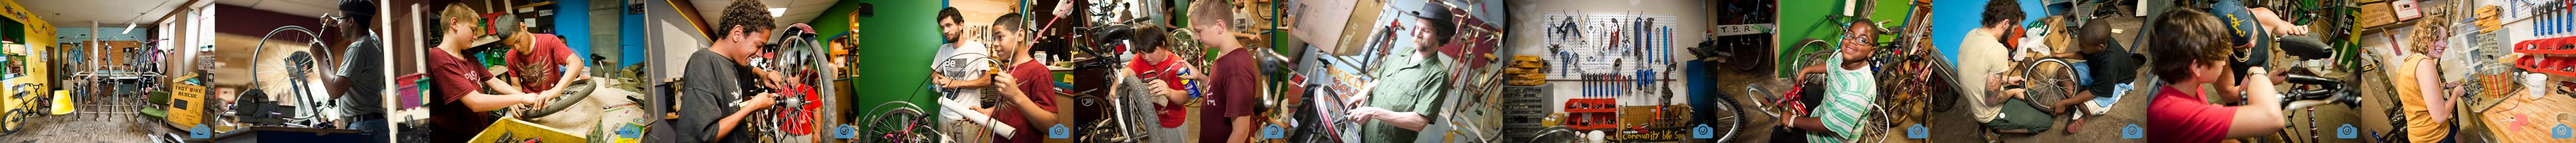
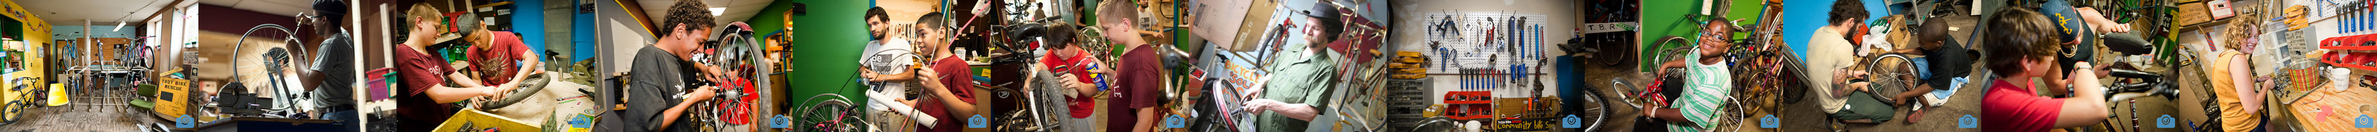
added address/changed placement of donate button

diff --git a/app/index.html b/app/index.html
@@ -49,7 +49,7 @@
 		c-0.4,0.7-0.3,0.9,0.5,0.9C617.9,45.4,619.7,45.4,621.5,45.4z"/>
 </g>
 <g id="donate">
-	<path style="fill:#FFFEF2;" d="M568.3,35.3c0,11-9,20-20,20h-160c-11,0-20-9-20-20l0,0c0-11,9-20,20-20h160
+	<path style="fill:#222222;" d="M568.3,35.3c0,11-9,20-20,20h-160c-11,0-20-9-20-20l0,0c0-11,9-20,20-20h160
 		C559.3,15.3,568.3,24.3,568.3,35.3L568.3,35.3z M418.4,49.5c3.8,0,5.8-0.8,6.9-2.9c1.1-2.1,1.2-5.6,1.2-11s-0.2-8.9-1.2-11
 		c-1.1-2.1-3.1-2.9-6.9-2.9h-3.2v27.8H418.4z M419.2,25.8c1.4,0,2.2,0.2,2.6,1.5c0.2,0.7,0.3,1.7,0.4,2.9c0,1.3,0,3.1,0,5.4
 		s0,4,0,5.4s-0.2,2.3-0.4,2.9c-0.4,1.4-1.2,1.5-2.6,1.5V25.8z M444.8,27.4c0-1.1-0.3-2.1-0.7-3c-0.3-0.8-0.9-1.5-1.6-2.1
@@ -127,12 +127,9 @@
       <div id="page-splash" class="small-12 columns">
         <div id="splash-title-container">
           <div id="splash-title">TROY BIKE RESCUE</div>
-          <div id="splash-donate-button">
-            <form action="https://www.paypal.com/cgi-bin/webscr" method="post">
-              <input name="cmd" value="_s-xclick" type="hidden">
-              <input name="hosted_button_id" value="7G4M6AM26W9T6" type="hidden"><br>
-              <input src="/images/donate-button.svg" name="submit" alt="PayPal -The safer, easier way to pay online!" border="0" type="image"><img src="https://www.paypalobjects.com/en_US/i/scr/pixel.gif" height="1" width="1"><br>
-            </form>
+          <div id="splash-address">
+            <h2>3280 6th Avenue Troy, NY 12180</h2>
+            <h2>(518)-328-4827</h2>
           </div>
           <div id="splash-social-media"><a href="http://www.facebook.com/troybikerescue">
                 <!--got my svg sprie sheet on a 72px base grid-->
@@ -280,7 +277,7 @@
           <h1>ADOPT A BIKE</h1>
         </div>
         <div class="row">
-          <div class="small-12 medium-10 large-8 medium-centered columns">
+          <div class="small-12 medium-8 large-6 medium-centered columns">
             <p>
               Refurbished bicycles are available for adoption for a donation on a sliding scale.
               Bikes are grouped into several categories ($15-30, $30-60, $60-100, etc...), 
@@ -290,6 +287,13 @@
               All proceeds from bike adoption fees pay TBR overhead. Without your donations, we cannot do what we do.
             </p>
           </div>
+        </div>
+        <div class="row">
+          <div id="donate-button"><a href="https://www.paypal.com/cgi-bin/webscr?cmd=_donations&amp;business=CBUZAKHL5EDKG&amp;lc=US&amp;item_name=Troy%20Bike%20Rescue&amp;no_note=0&amp;cn=Any%20comments%20for%20TBR%3f&amp;no_shipping=1&amp;currency_code=USD&amp;bn=PP%2dDonationsBF%3abtn_donate_LG%2egif%3aNonHosted">
+                <!--got my svg sprie sheet on a 72px base grid-->
+                <svg viewbox="360 0 216 72" class="svg-sprite">
+                  <use xlink:href="#donate"></use>
+                </svg></a></div>
         </div>
       </div>
     </div>
@@ -352,13 +356,14 @@
         </div>
       </div>
     </div>
-    <script src="http://cdnjs.cloudflare.com/ajax/libs/jquery/2.1.1/jquery.min.js"></script>
+    <script src="//ajax.googleapis.com/ajax/libs/jquery/1.8.3/jquery.min.js"></script>
     <!-- bower:js-->
-    <script async src="//cdnjs.cloudflare.com/ajax/libs/fastclick/1.0.2/fastclick.min.js"></script>
     <!-- endbower-->
-    <script src="//cdnjs.cloudflare.com/ajax/libs/foundation/5.3.1/js/foundation.min.js"></script>
     <!-- build:js js/app.min.js-->
     <script src="js/app.js"></script>
+    <script src="/bower_components/fastclick/lib/fastclick.js"></script>
+    <script src="/bower_components/foundation/js/foundation/foundation.js"></script>
+    <script src="/bower_components/foundation/js/foundation/foundation.equalizer.js"></script>
     <!-- endbuild-->
   </body>
 </html>

diff --git a/app/css/app.css b/app/css/app.css
@@ -5266,10 +5266,6 @@ h2 {
   font-size: 7em;
   line-height: 1em;
 }
-#page-splash #splash-donate-button {
-  width: 200px;
-  margin: 0 auto;
-}
 #page-splash #splash-social-media {
   width: 100%;
   display: -webkit-box;
@@ -5291,14 +5287,9 @@ h2 {
   height: 100%;
   width: 100%;
 }
-#page-splash #splash-social-media #splash-social-media--facebook {
-  background: url("/images/social-media-icons.svg");
-}
-#page-splash #splash-social-media #splash-social-media--twitter {
-  background: url("/images/social-media-icons.svg") -40px 0;
-}
-#page-splash #splash-social-media #splash-social-media--instagram {
-  background: url("/images/social-media-icons.svg") -80px 0;
+#page-splash #splash-address h2 {
+  color: ivory;
+  text-align: center;
 }
 
 #page-programs {
@@ -5467,10 +5458,10 @@ Feel free to copy and reuse as you like
   float: left;
   position: relative;
   overflow: hidden;
-  max-width: 325px;
+  max-width: 325.00000001px;
 }
 #page-gallery .stretchy .spacer {
-  width: 100.000%;
+  width: 100.00000001%;
   height: auto;
 }
 #page-gallery .stretchy .sprite {
@@ -5478,7 +5469,7 @@ Feel free to copy and reuse as you like
   top: 0;
   left: 0;
   max-width: none;
-  max-height: 100.000%;
+  max-height: 100.00000001%;
 }
 #page-gallery .stretchy .sprite.s2 {
   left: -100%;
@@ -5517,10 +5508,10 @@ Feel free to copy and reuse as you like
   left: -1200%;
 }
 #page-gallery .stretchy.no-limit {
-  max-width: none;
+  max-width: 600.00000001px;
 }
 #page-gallery .stretchy.no-limit .sprite {
-  min-height: 100.000%;
+  min-height: 100.00000001%;
 }
 #page-gallery h1 {
   font-size: 4em;
@@ -5548,7 +5539,7 @@ Feel free to copy and reuse as you like
   background-color: ivory;
   padding: 1em;
 }
-#page-adopt-a-bike svg {
+#page-adopt-a-bike .svg-sprite {
   display: block;
   width: 10em;
   height: 8em;
@@ -5560,6 +5551,26 @@ Feel free to copy and reuse as you like
 }
 #page-adopt-a-bike p {
   padding: 10px;
+}
+#page-adopt-a-bike #donate-button {
+  display: -webkit-box;
+  display: -webkit-flex;
+  display: -ms-flexbox;
+  display: flex;
+  -webkit-box-orient: horizontal;
+  -webkit-box-direction: normal;
+  -webkit-flex-direction: row;
+      -ms-flex-direction: row;
+          flex-direction: row;
+  -webkit-box-pack: center;
+  -webkit-justify-content: center;
+      -ms-flex-pack: center;
+          justify-content: center;
+}
+#page-adopt-a-bike #donate-button a svg {
+  width: 216px;
+  height: 72px;
+  margin: 0 0;
 }
 
 .full-width {

diff --git a/app/scss/app.scss b/app/scss/app.scss
@@ -123,11 +123,6 @@ h2 {
     font-size: 7em;
     line-height: 1em;
   }
-  #splash-donate-button {
-    width: 200px;
-    margin: 0 auto;
-  }
-
   #splash-social-media {
     width: 100%;
     display: flex;
@@ -142,17 +137,11 @@ h2 {
         width: 100%;
       }
     }
-
-    #splash-social-media--facebook {
-      background: url($social-media-icons);
-    }
-
-    #splash-social-media--twitter {
-      background: url($social-media-icons) -40px 0;
-    }
-
-    #splash-social-media--instagram {
-      background: url($social-media-icons) -80px 0;
+  }
+  #splash-address {
+    h2 {
+      color: ivory;
+      text-align: center;
     }
   }
 }
@@ -268,16 +257,16 @@ h2 {
   Feel free to copy and reuse as you like
   */
   /*Set the max-width to the width of your individual sprites:*/
-  .stretchy {display:block; float:left; position:relative; overflow:hidden; max-width:325px;}
-  .stretchy .spacer {width: 100.000%; height: auto;}
-  .stretchy .sprite {position:absolute; top:0; left:0; max-width:none; max-height:100.000%;}
+  .stretchy {display:block; float:left; position:relative; overflow:hidden; max-width:325.00000001px;}
+  .stretchy .spacer {width: 100.00000001%; height: auto;}
+  .stretchy .sprite {position:absolute; top:0; left:0; max-width:none; max-height:100.00000001%;}
   @for $i from 1 through 12 {
     .stretchy .sprite.s#{$i + 1} {
       left: percentage(-$i);
     }
   }
-  .stretchy.no-limit { max-width: none;} /*you could also set this to a pixel size, for example 320px, to limit the maximum*/
-  .stretchy.no-limit .sprite {min-height: 100.000%;}
+  .stretchy.no-limit { max-width: 600.00000001px;} /*you could also set this to a pixel size, for example 320px, to limit the maximum*/
+  .stretchy.no-limit .sprite {min-height: 100.00000001%;}
 
   /*END stretchy sprites by tobyj.net*/
   h1 {
@@ -301,7 +290,7 @@ h2 {
 #page-adopt-a-bike {
   background-color: ivory;
   padding: 1em;
-  svg {
+  .svg-sprite {
     display: block;
     width: 10em;
     height: 8em;
@@ -313,6 +302,16 @@ h2 {
   }
   p {
     padding: 10px;
+  }
+  #donate-button {
+    display: flex;
+    flex-direction: row;
+    justify-content: center;
+    a svg{
+      width: 216px;
+      height: 72px;
+      margin: 0 0;
+    }
   }
 }
 .full-width {

diff --git a/app/css/app--no-prefix.css b/app/css/app--no-prefix.css
@@ -5259,10 +5259,6 @@ h2 {
   font-size: 7em;
   line-height: 1em;
 }
-#page-splash #splash-donate-button {
-  width: 200px;
-  margin: 0 auto;
-}
 #page-splash #splash-social-media {
   width: 100%;
   display: flex;
@@ -5278,14 +5274,9 @@ h2 {
   height: 100%;
   width: 100%;
 }
-#page-splash #splash-social-media #splash-social-media--facebook {
-  background: url("/images/social-media-icons.svg");
-}
-#page-splash #splash-social-media #splash-social-media--twitter {
-  background: url("/images/social-media-icons.svg") -40px 0;
-}
-#page-splash #splash-social-media #splash-social-media--instagram {
-  background: url("/images/social-media-icons.svg") -80px 0;
+#page-splash #splash-address h2 {
+  color: ivory;
+  text-align: center;
 }
 
 #page-programs {
@@ -5454,10 +5445,10 @@ Feel free to copy and reuse as you like
   float: left;
   position: relative;
   overflow: hidden;
-  max-width: 325px;
+  max-width: 325.00000001px;
 }
 #page-gallery .stretchy .spacer {
-  width: 100.000%;
+  width: 100.00000001%;
   height: auto;
 }
 #page-gallery .stretchy .sprite {
@@ -5465,7 +5456,7 @@ Feel free to copy and reuse as you like
   top: 0;
   left: 0;
   max-width: none;
-  max-height: 100.000%;
+  max-height: 100.00000001%;
 }
 #page-gallery .stretchy .sprite.s2 {
   left: -100%;
@@ -5504,10 +5495,10 @@ Feel free to copy and reuse as you like
   left: -1200%;
 }
 #page-gallery .stretchy.no-limit {
-  max-width: none;
+  max-width: 600.00000001px;
 }
 #page-gallery .stretchy.no-limit .sprite {
-  min-height: 100.000%;
+  min-height: 100.00000001%;
 }
 #page-gallery h1 {
   font-size: 4em;
@@ -5535,7 +5526,7 @@ Feel free to copy and reuse as you like
   background-color: ivory;
   padding: 1em;
 }
-#page-adopt-a-bike svg {
+#page-adopt-a-bike .svg-sprite {
   display: block;
   width: 10em;
   height: 8em;
@@ -5547,6 +5538,16 @@ Feel free to copy and reuse as you like
 }
 #page-adopt-a-bike p {
   padding: 10px;
+}
+#page-adopt-a-bike #donate-button {
+  display: flex;
+  flex-direction: row;
+  justify-content: center;
+}
+#page-adopt-a-bike #donate-button a svg {
+  width: 216px;
+  height: 72px;
+  margin: 0 0;
 }
 
 .full-width {

diff --git a/app/js/app.js b/app/js/app.js
@@ -7,7 +7,6 @@ var app = (function(document, $) {
 			docElem.setAttribute('data-useragent', navigator.userAgent);
 		},
 		_init = function() {
-			$(document).foundation();
 			_userAgentInit();
 		};
 
@@ -26,10 +25,11 @@ var app = (function(document, $) {
 
 $(document).ready(function() {
 	'use strict';
+	$(document).foundation();
 });
 
 $( window ).load(function() {
 	'use strict';
-	$('img.sprite').attr('src', '/images/gallery-grid.jpg');
-	$('img.spacer').attr('src', '/images/spacer.png');
+	$('.sprite').attr('src', '/images/gallery-grid.jpg');
+	$('.spacer').attr('src', '/images/spacer.png');
 });
